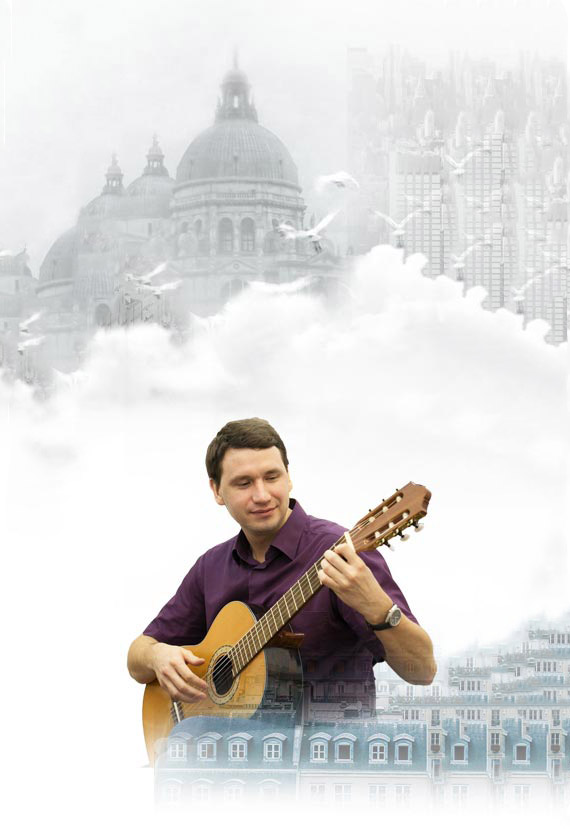
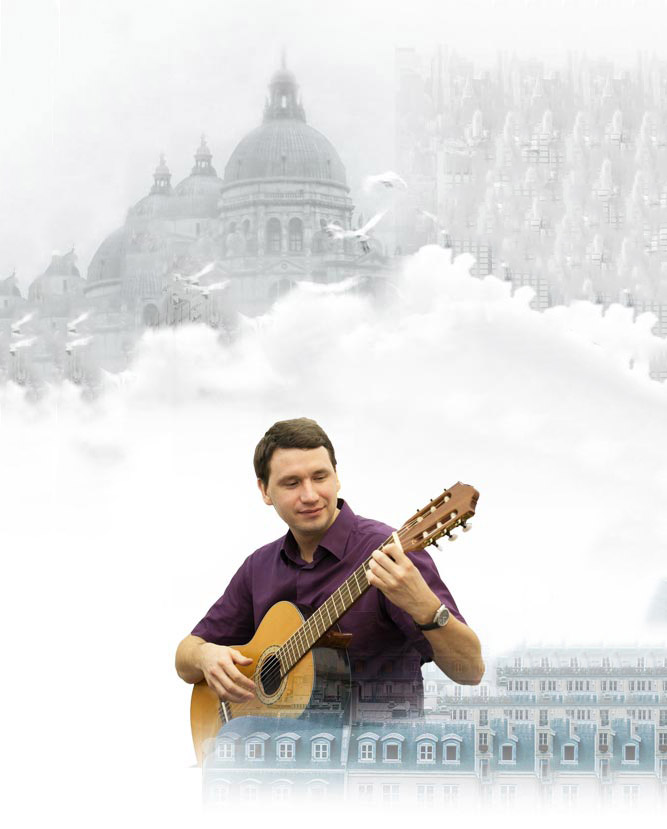
fix

diff --git a/app/css/mob.css b/app/css/mob.css
@@ -396,7 +396,7 @@
     -ms-background-position-y: 750px;
     background-position-y: 750px; } }
 
-@media only screen and (max-width: 570px) {
+@media only screen and (max-width: 667px) {
   .acustic .header {
     background: url("../img/acustic/bg-570.jpg") no-repeat; }
   .acustic .header-h1 {

diff --git a/app/sass/mob.sass b/app/sass/mob.sass
@@ -411,7 +411,7 @@
   .electro .block-2
     -ms-background-position-y: 750px
     background-position-y: 750px
-@media only screen and (max-width : 570px)
+@media only screen and (max-width : 667px)
   .acustic
     .header
       background: url("../img/acustic/bg-570.jpg") no-repeat
